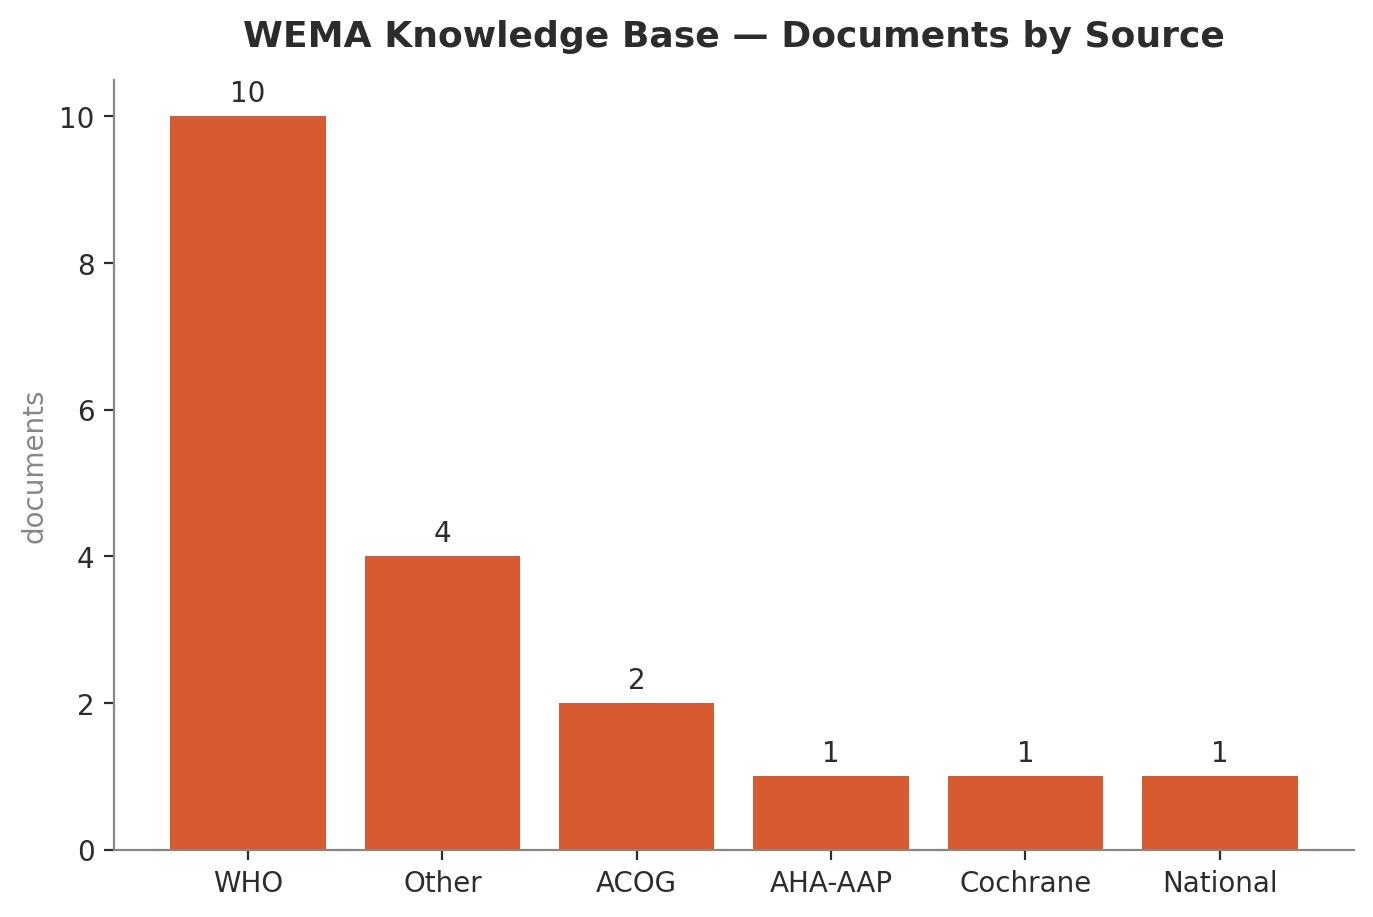
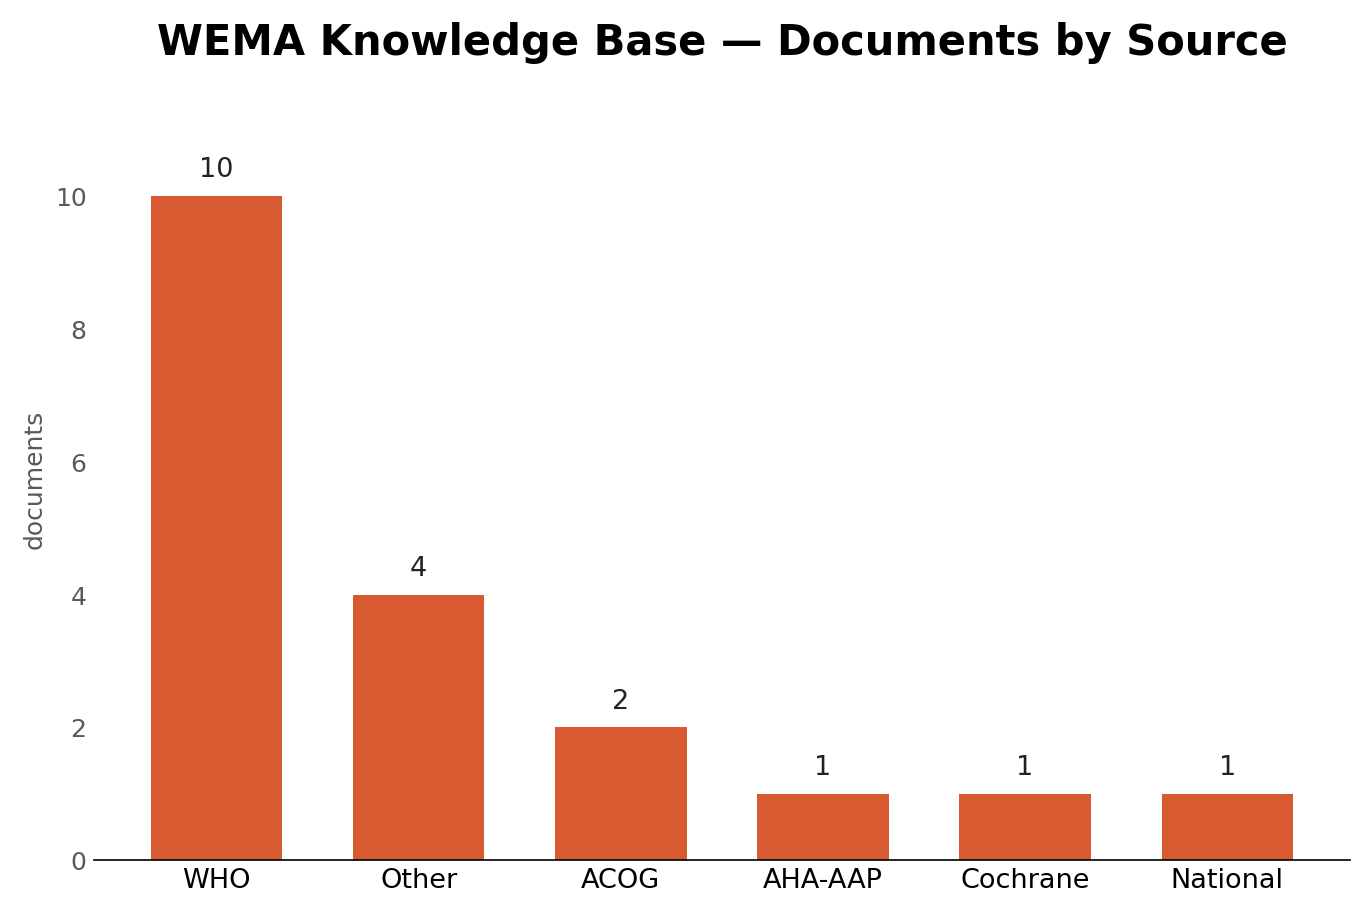
Regenerate KB manifest and charts to reconcile with vector store (10,025 chunks)

diff --git a/reports/kb/generate_kb_charts.py b/reports/kb/generate_kb_charts.py
@@ -1,0 +1,119 @@
+"""
+WEMA — Women's Emergency Medical AI
+reports/kb/generate_kb_charts.py
+
+Regenerates kb_by_source.png and kb_chunks_per_source.png from
+reports/kb/knowledge_base_manifest.csv, so the figures stay reproducible
+from the manifest instead of being hand-edited images.
+
+Run from the project root:
+    python reports/kb/generate_kb_charts.py
+"""
+
+import os
+import csv
+import matplotlib.pyplot as plt
+
+HERE = os.path.dirname(os.path.abspath(__file__))
+MANIFEST_PATH = os.path.join(HERE, "knowledge_base_manifest.csv")
+
+COLOR_SOURCE = "#d85a30"   # orange — documents by source
+COLOR_CHUNKS = "#1d9e75"   # teal — chunks ingested per document
+
+plt.rcParams["font.family"] = "DejaVu Sans"
+
+
+def load_manifest():
+    with open(MANIFEST_PATH, newline="", encoding="utf-8") as f:
+        return list(csv.DictReader(f))
+
+
+def style_axes(ax):
+    ax.spines["top"].set_visible(False)
+    ax.spines["right"].set_visible(False)
+    ax.spines["left"].set_visible(False)
+    ax.tick_params(length=0)
+
+
+def plot_by_source(rows, out_path):
+    counts = {}
+    for row in rows:
+        counts[row["source"]] = counts.get(row["source"], 0) + 1
+    # sort descending by count, ties broken by first-appearance order in the manifest
+    ordered_sources = []
+    for row in rows:
+        if row["source"] not in ordered_sources:
+            ordered_sources.append(row["source"])
+    ordered_sources.sort(key=lambda s: -counts[s])
+
+    values = [counts[s] for s in ordered_sources]
+
+    fig, ax = plt.subplots(figsize=(9.15, 6.11), dpi=150)
+    bars = ax.bar(ordered_sources, values, color=COLOR_SOURCE, width=0.65)
+
+    for bar, v in zip(bars, values):
+        ax.text(
+            bar.get_x() + bar.get_width() / 2, bar.get_height() + max(values) * 0.02,
+            str(v), ha="center", va="bottom", fontsize=13, color="#222222",
+        )
+
+    ax.set_title("WEMA Knowledge Base — Documents by Source", fontsize=20, fontweight="bold", pad=20)
+    ax.set_ylabel("documents", fontsize=12, color="#595959")
+    ax.set_ylim(0, max(values) * 1.15)
+    ax.tick_params(axis="x", labelsize=13)
+    ax.tick_params(axis="y", labelsize=12, colors="#595959")
+    style_axes(ax)
+
+    fig.tight_layout()
+    fig.savefig(out_path)
+    plt.close(fig)
+
+
+def plot_chunks_per_source(rows, out_path):
+    ordered = sorted(rows, key=lambda r: -int(r["chunks"]))
+    titles = [r["title"] for r in ordered]
+    chunks = [int(r["chunks"]) for r in ordered]
+
+    fig, ax = plt.subplots(figsize=(14.4, 7.1), dpi=200)
+    y_pos = range(len(titles))
+    bars = ax.barh(y_pos, chunks, color=COLOR_CHUNKS, height=0.65)
+
+    ax.set_yticks(list(y_pos))
+    ax.set_yticklabels(titles, fontsize=10)
+    ax.invert_yaxis()  # largest at top, matching original layout
+
+    max_val = max(chunks)
+    for bar, v in zip(bars, chunks):
+        ax.text(
+            bar.get_width() + max_val * 0.01, bar.get_y() + bar.get_height() / 2,
+            str(v), ha="left", va="center", fontsize=10, color="#222222",
+        )
+
+    ax.set_title("WEMA Knowledge Base — Chunks Ingested per Document", fontsize=16, fontweight="bold", pad=16)
+    ax.set_xlabel("chunks in ChromaDB", fontsize=11, color="#595959")
+    ax.set_xlim(0, max_val * 1.12)
+    ax.tick_params(axis="x", labelsize=10, colors="#595959")
+    style_axes(ax)
+
+    fig.tight_layout()
+    fig.savefig(out_path)
+    plt.close(fig)
+
+
+def main():
+    rows = load_manifest()
+    total = sum(int(r["chunks"]) for r in rows)
+    print(f"Loaded {len(rows)} documents, {total:,} total chunks from manifest.")
+
+    by_source_path = os.path.join(HERE, "kb_by_source.png")
+    chunks_path = os.path.join(HERE, "kb_chunks_per_source.png")
+
+    plot_by_source(rows, by_source_path)
+    print(f"Wrote {by_source_path}")
+
+    plot_chunks_per_source(rows, chunks_path)
+    print(f"Wrote {chunks_path}")
+
+
+if __name__ == "__main__":
+    main()